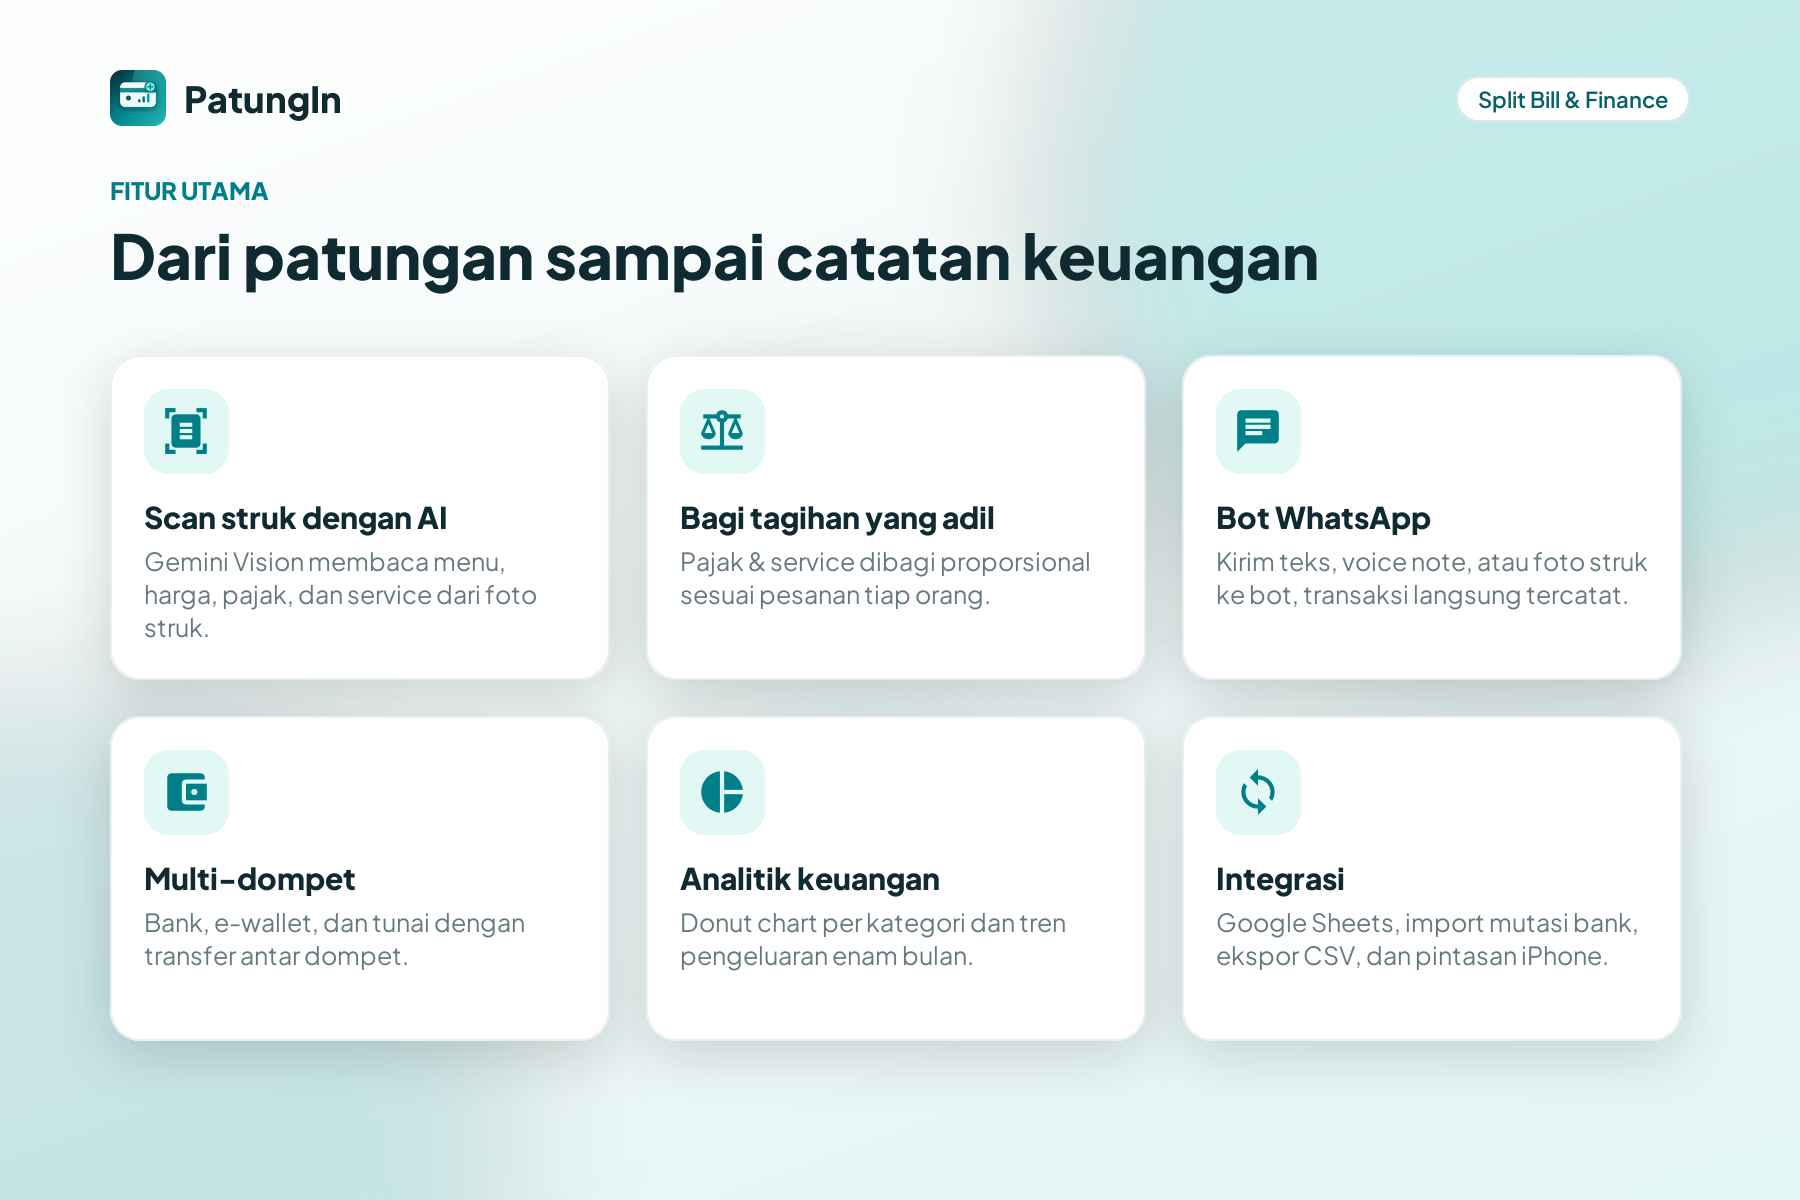
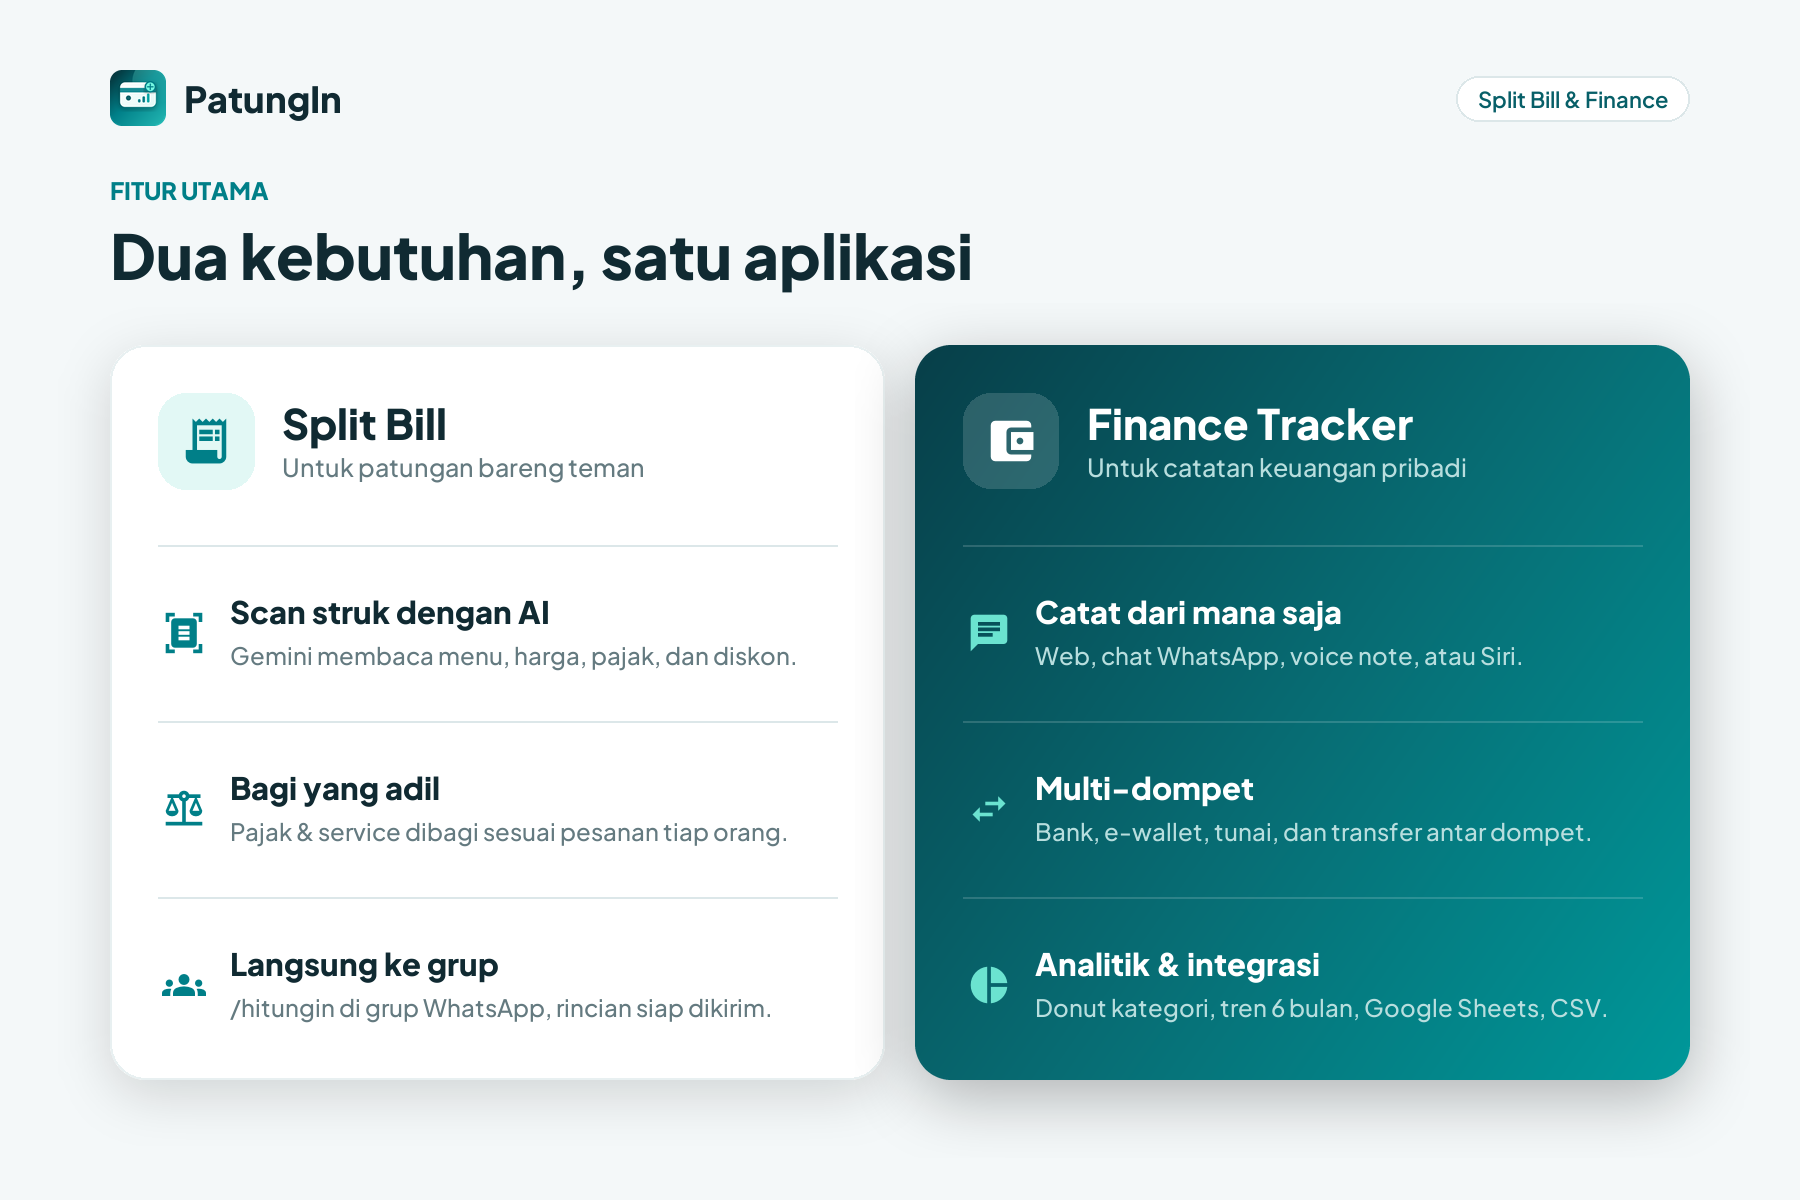
docs(portfolio): desain ulang cover dan halaman fitur

diff --git a/docs/portfolio/make_showcase.py b/docs/portfolio/make_showcase.py
@@ -263,8 +263,18 @@ def eyebrow(d, x, y, s):
 
 
 def save(img, name):
+    import time
     path = os.path.join(OUT, name)
-    img.convert("RGB").save(path, optimize=True)
+    tmp = path + ".tmp.png"
+    img.convert("RGB").save(tmp, optimize=True)
+    for attempt in range(20):  # the target can be briefly locked by a previewer on Windows
+        try:
+            os.replace(tmp, path)
+            break
+        except OSError:
+            time.sleep(0.5)
+    else:
+        raise OSError(f"could not write {path} (file in use?)")
     print("saved", name, os.path.getsize(path) // 1024, "KB")
 
 
@@ -317,64 +327,102 @@ def numbered(d, x, y, n, label, sub=None):
 
 # ============================ slides ==========================================
 def slide_cover(S):
-    base = soft_background()
-    ph = {k: make_phone(S[k], w) for k, w in
-          [("split_step4", 320), ("fin_catat_calc", 320), ("fin_analytics", 320), ("split_step2", 300), ("fin_home", 400)]}
-    place(base, ph["fin_analytics"], 1500, 90, angle=-3)
-    place(base, ph["split_step4"], 905, 240, angle=4)
-    place(base, ph["fin_catat_calc"], 1240, 60, angle=-2)
-    place(base, ph["split_step2"], 1530, 620, angle=3)
-    place(base, ph["fin_home"], 1100, 320)
+    """Dark, centred cover: title on top, two phones rising from the bottom edge."""
+    extra = 600  # draw on a taller canvas so phones can run off the bottom, then crop
+    base = gradient(W, H + extra, [(5, 46, 54), (7, 78, 86), (0, 128, 132)], angle=165).convert("RGBA")
+    glow = Image.new("RGBA", base.size, (0, 0, 0, 0))
+    gd = ImageDraw.Draw(glow)
+    gd.ellipse([W // 2 - 620, 560, W // 2 + 620, 1500], fill=(36, 185, 180, 70))
+    glow = glow.filter(ImageFilter.GaussianBlur(120))
+    base.alpha_composite(glow)
 
     d = ImageDraw.Draw(base)
-    base.alpha_composite(logo(104), (110, 146))
-    d.text((240, 198), "PatungIn", font=font(800, 54), fill=TEXT, anchor="lm")
-    d.text((110, 330), "Split Bill &", font=font(800, 80), fill=TEXT, anchor="la")
-    d.text((110, 420), "Finance Tracker", font=font(800, 80), fill=PRIMARY, anchor="la")
-    d.text((110, 540), "Web App (PWA) · WhatsApp Bot · Gemini AI", font=font(600, 30), fill=MUTED, anchor="la")
+    # brand row
+    lg = 64
+    name_f = font(800, 34)
+    row_w = lg + 18 + int(name_f.getlength("PatungIn"))
+    x0 = (W - row_w) // 2
+    base.alpha_composite(logo(lg), (x0, 86))
+    d.text((x0 + lg + 18, 86 + lg // 2), "PatungIn", font=name_f, fill=WHITE, anchor="lm")
 
-    items = ["Scan struk & bagi tagihan secara adil",
-             "Catat keuangan lewat web atau chat WhatsApp",
-             "Multi-dompet, analitik & ekspor CSV",
-             "Sinkron Google Sheets & pintasan iPhone"]
-    y = 640
-    for it in items:
-        d.ellipse([110, y, 110 + 50, y + 50], fill=PRIMARY)
-        draw_icon(d, "check", 110 + 25, y + 25, 32, WHITE)
-        d.text((184, y + 25), it, font=font(600, 31), fill=TEXT, anchor="lm")
-        y += 80
+    d.text((W // 2, 270), "Split bill & catat keuangan", font=font(800, 76), fill=WHITE, anchor="mm")
+    d.text((W // 2, 352), "Foto struk, bagi adil, semua tercatat.", font=font(500, 34), fill=(176, 226, 222), anchor="mm")
 
-    x = 110
-    for lab in ["Node.js", "Express", "SQLite", "Gemini API", "Baileys"]:
-        w_, _ = chip(base, x, 992, lab, font(700, 24), PRIMARY_DARK, TINT, pad_x=24, pad_y=11)
-        x += w_ + 14
-    save(base, "01-cover.png")
+    # stack chips, centred
+    labels = ["Node.js", "Express", "SQLite", "Gemini API", "WhatsApp Bot", "PWA"]
+    f = font(700, 22)
+    widths = [int(f.getlength(t)) + 44 for t in labels]
+    gap = 12
+    cx = (W - (sum(widths) + gap * (len(labels) - 1))) // 2
+    for t, w_ in zip(labels, widths):
+        chip(base, cx, 412, t, f, (214, 244, 240), (18, 96, 104), pad_x=22, pad_y=10)
+        cx += w_ + gap
+
+    # phones
+    left = make_phone(S["split_step4"], 400)
+    right = make_phone(S["fin_home"], 400)
+    shadow = (40, 30, 150)
+    place(base, left, W // 2 - 440, 560, angle=6, shadow=shadow)
+    place(base, right, W // 2 + 20, 540, angle=-6, shadow=shadow)
+
+    save(base.crop((0, 0, W, H)), "01-cover.png")
 
 
 def slide_features(S):
-    base = soft_background()
+    """Two panels: the split bill side (light) and the finance side (dark)."""
+    base = Image.new("RGBA", (W, H), PAGE + (255,))
     chrome(base)
     d = ImageDraw.Draw(base)
     eyebrow(d, 110, 175, "Fitur utama")
-    d.text((110, 215), "Dari patungan sampai catatan keuangan", font=font(800, 62), fill=TEXT, anchor="la")
-    feats = [
-        ("document_scanner", "Scan struk dengan AI", "Gemini Vision membaca menu, harga, pajak, dan service dari foto struk."),
-        ("balance", "Bagi tagihan yang adil", "Pajak & service dibagi proporsional sesuai pesanan tiap orang."),
-        ("chat", "Bot WhatsApp", "Kirim teks, voice note, atau foto struk ke bot, transaksi langsung tercatat."),
-        ("account_balance_wallet", "Multi-dompet", "Bank, e-wallet, dan tunai dengan transfer antar dompet."),
-        ("pie_chart", "Analitik keuangan", "Donut chart per kategori dan tren pengeluaran enam bulan."),
-        ("sync", "Integrasi", "Google Sheets, import mutasi bank, ekspor CSV, dan pintasan iPhone."),
+    d.text((110, 215), "Dua kebutuhan, satu aplikasi", font=font(800, 62), fill=TEXT, anchor="la")
+
+    panels = [
+        ("receipt_long", "Split Bill", "Untuk patungan bareng teman", False, [
+            ("document_scanner", "Scan struk dengan AI", "Gemini membaca menu, harga, pajak, dan diskon."),
+            ("balance", "Bagi yang adil", "Pajak & service dibagi sesuai pesanan tiap orang."),
+            ("groups", "Langsung ke grup", "/hitungin di grup WhatsApp, rincian siap dikirim."),
+        ]),
+        ("account_balance_wallet", "Finance Tracker", "Untuk catatan keuangan pribadi", True, [
+            ("chat", "Catat dari mana saja", "Web, chat WhatsApp, voice note, atau Siri."),
+            ("swap_horiz", "Multi-dompet", "Bank, e-wallet, tunai, dan transfer antar dompet."),
+            ("pie_chart", "Analitik & integrasi", "Donut kategori, tren 6 bulan, Google Sheets, CSV."),
+        ]),
     ]
-    cw, ch_, gap = 500, 325, 36
-    for i, (ic, title, desc) in enumerate(feats):
-        cx = 110 + (i % 3) * (cw + gap)
-        cy = 355 + (i // 3) * (ch_ + gap)
-        rrect(base, (cx, cy, cx + cw, cy + ch_), 30, fill=WHITE, shadow=(26, 14, 38), outline=(232, 240, 241))
+    pw, ph_, gap, y0 = 775, 735, 30, 345
+    for i, (hic, title, sub, dark, rows) in enumerate(panels):
+        x = 110 + i * (pw + gap)
+        if dark:
+            rrect(base, (x, y0, x + pw, y0 + ph_), 36, gradient_img=gradient(pw, ph_, HERO_STOPS, 125), shadow=(30, 18, 70))
+            fg, mut, tint, ic_col, line = WHITE, (184, 222, 222), (255, 255, 255), WHITE, (255, 255, 255, 40)
+        else:
+            rrect(base, (x, y0, x + pw, y0 + ph_), 36, fill=WHITE, shadow=(26, 14, 38), outline=(232, 240, 241))
+            fg, mut, tint, ic_col, line = TEXT, MUTED, TINT, PRIMARY, BORDER + (255,)
         d = ImageDraw.Draw(base)
-        d.rounded_rectangle([cx + 34, cy + 34, cx + 34 + 84, cy + 34 + 84], radius=24, fill=TINT)
-        draw_icon(d, ic, cx + 34 + 42, cy + 34 + 42, 50, PRIMARY)
-        d.text((cx + 34, cy + 142), title, font=font(800, 30), fill=TEXT, anchor="la")
-        draw_text(d, (cx + 34, cy + 190), desc, font(400, 25), MUTED, max_w=cw - 68, line_gap=1.32)
+        # header
+        hx, hy = x + 48, y0 + 48
+        if dark:
+            ov = Image.new("RGBA", (96, 96), (0, 0, 0, 0))
+            ImageDraw.Draw(ov).rounded_rectangle([0, 0, 95, 95], radius=28, fill=(255, 255, 255, 38))
+            base.alpha_composite(ov, (hx, hy))
+            d = ImageDraw.Draw(base)
+        else:
+            d.rounded_rectangle([hx, hy, hx + 96, hy + 96], radius=28, fill=tint)
+        draw_icon(d, hic, hx + 48, hy + 48, 54, ic_col)
+        d.text((hx + 124, hy + 30), title, font=font(800, 42), fill=fg, anchor="lm")
+        d.text((hx + 124, hy + 74), sub, font=font(500, 25), fill=mut, anchor="lm")
+
+        # rows
+        ry = y0 + 200
+        for j, (ic, t1, t2) in enumerate(rows):
+            lay = Image.new("RGBA", base.size, (0, 0, 0, 0))
+            ImageDraw.Draw(lay).line([(x + 48, ry), (x + pw - 48, ry)], fill=line, width=2)
+            base.alpha_composite(lay)
+            d = ImageDraw.Draw(base)
+            cy = ry + 88
+            draw_icon(d, ic, x + 48 + 26, cy, 44, (107, 227, 208) if dark else PRIMARY)
+            d.text((x + 120, cy - 22), t1, font=font(800, 31), fill=fg, anchor="lm")
+            d.text((x + 120, cy + 22), t2, font=font(500, 24), fill=mut, anchor="lm")
+            ry += 176
     save(base, "02-fitur-utama.png")
 
 
